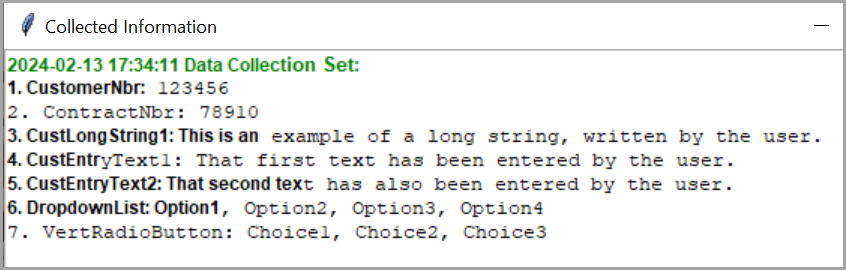
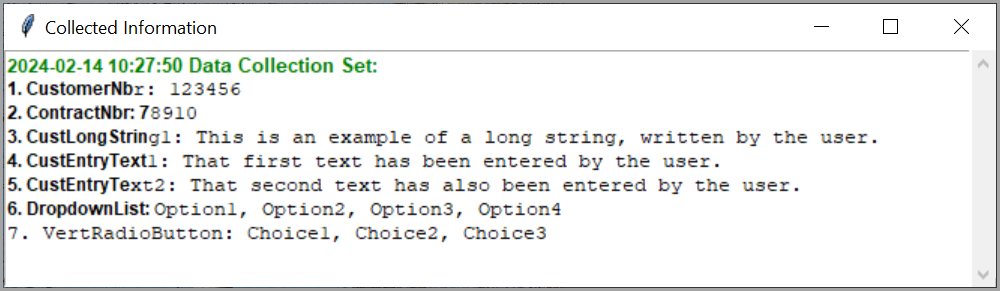
Better collected information window

Changed region(s): [[0.0, 0.0, 1.0, 1.0], [0.8913, 0.0593, 0.922, 0.1185]]

diff --git a/collected_info.py b/collected_info.py
@@ -15,23 +15,27 @@ class CollectedInfo:
         scrollbar = tk.Scrollbar(self.info_window)
         scrollbar.pack(side=tk.RIGHT, fill=tk.Y)
         
-        # Create the text widget
-        self.text_widget = tk.Text(self.info_window, wrap='word', yscrollcommand=scrollbar.set, state=tk.DISABLED)
+        # Create the text widget with a monospaced font
+        self.text_widget = tk.Text(self.info_window, wrap='word', yscrollcommand=scrollbar.set, 
+                                   state=tk.DISABLED, font=('Courier', 10))
         self.text_widget.pack(expand=True, fill='both')
         
         # Configure scrollbar
         scrollbar.config(command=self.text_widget.yview)
         
         # Configure tag for timestamp
-        self.text_widget.tag_configure('timestamp', foreground='green', font=('Helvetica', 10, 'bold'))
+        self.text_widget.tag_configure('timestamp', foreground='green', font=('Courier', 10, 'bold'))
         
+        # Configure tag for bold text to use the same monospaced font
+        self.text_widget.tag_configure('bold', font=('Courier', 10, 'bold'))
+
     def update_info_display(self, data):
         # Enable the text widget to insert data
         self.text_widget.config(state=tk.NORMAL)
         
         # Insert the timestamp
         timestamp = datetime.datetime.now().strftime("%Y-%m-%d %H:%M:%S")
-        self.text_widget.insert(tk.END, timestamp + " Data Collection Set:\n", 'timestamp')
+        self.text_widget.insert(tk.END, timestamp + " -- Data Collection Set:\n", 'timestamp')
         
         counter = 1
         for label, value in data.items():
@@ -39,23 +43,12 @@ class CollectedInfo:
                 # Convert list to a comma-separated string
                 value = ", ".join(value)
             
-            # Insert the counting number
-            self.text_widget.insert(tk.END, f"{counter}. ")
-            
-            # Insert the label in bold
-            bold_label = f"{label}: "
-            self.text_widget.insert(tk.END, bold_label)
+            # Insert the counting number and the label
+            label_text = f"{counter}. {label}:  "
+            self.text_widget.insert(tk.END, label_text)
             
             # Insert the value
             self.text_widget.insert(tk.END, f"{value}\n")
-            
-            # Get the index of where the label starts and ends
-            label_start = f"{counter}.0"
-            label_end = f"{counter}.{len(bold_label)}"
-            
-            # Define and apply the tag for bold text to the label
-            self.text_widget.tag_add("bold", label_start, label_end)
-            self.text_widget.tag_config("bold", font=('TkDefaultFont', 9, 'bold'))
             
             counter += 1  # Increment the counter
         

diff --git a/main_app.py b/main_app.py
@@ -12,7 +12,7 @@ def main():
     example_data = {
         "CustomerNbr": "123456",
         "ContractNbr": "78910",
-        "CustLongString1": "This is an example of a long string, written by the user.",
+        "CustLongString": "This is an example of a long string, written by the user.",
         "CustEntryText1": "That first text has been entered by the user.",
         "CustEntryText2": "That second text has also been entered by the user.",
         "DropdownList": ["Option1", "Option2", "Option3", "Option4"],  # Dropdown options
